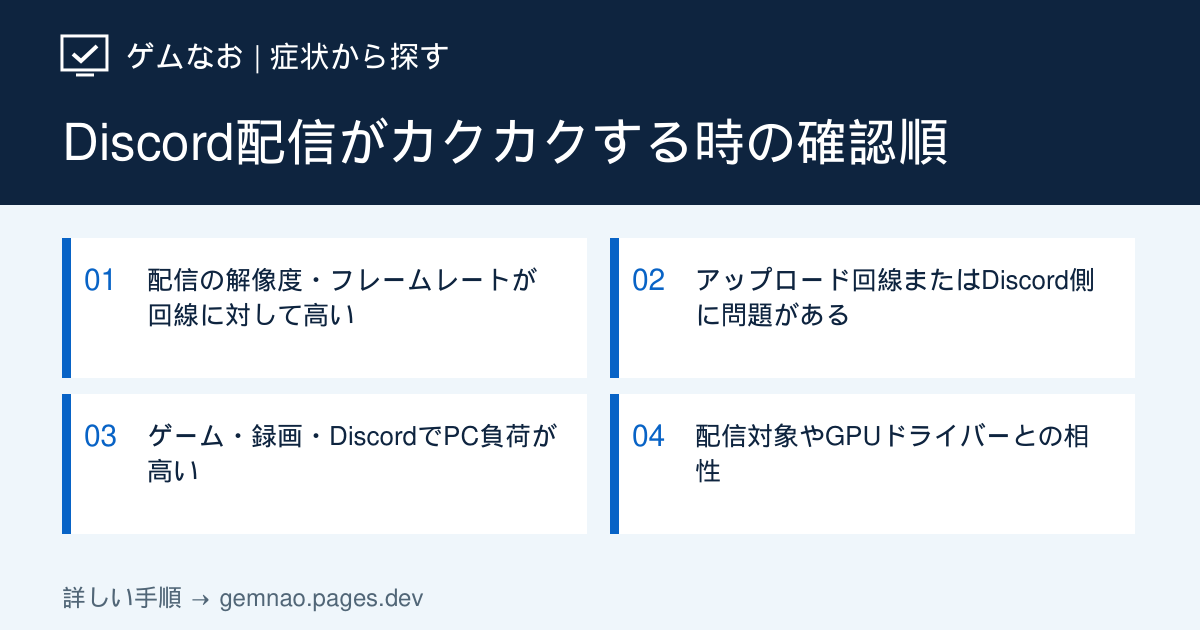
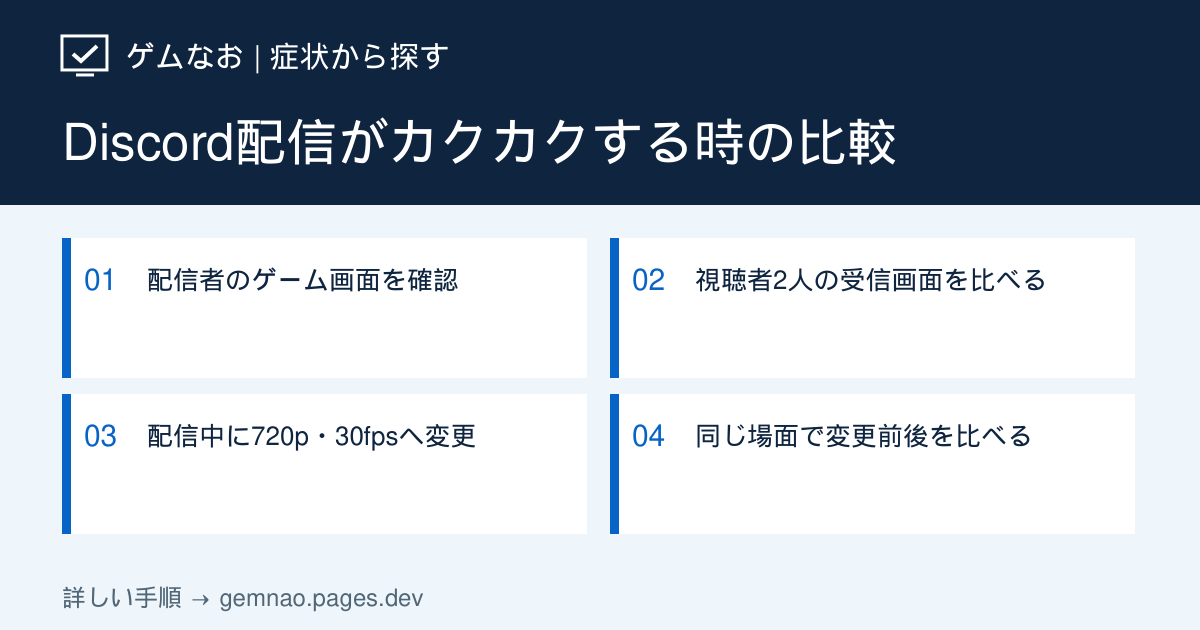
Improve Discord stream stuttering diagnosis for viewers

diff --git a/lib/discord-streaming-growth-articles.ts b/lib/discord-streaming-growth-articles.ts
@@ -15,6 +15,11 @@ const voiceVideoGuide = official(
   '音声・ビデオのトラブルシューティング（英語）',
 );
 
+const goLiveGuide = {
+  label: 'Discord公式サポート：Go Liveと画面共有（配信中の画質設定）',
+  url: 'https://support.discord.com/hc/ja/articles/360040816151',
+};
+
 const discordStatus = {
   label: 'Discord Status（公式障害情報）',
   url: 'https://discordstatus.com/',
@@ -24,95 +29,133 @@ export const discordStreamingGrowthArticles: DiscordArticle[] = [
   {
     slug: 'stream-stuttering',
     category: 'screen',
-    title: 'Discord配信がカクカクする・重いときの対処法',
+    title: 'Discord配信がカクカクする・重いときの直し方【配信者・視聴者別】',
     shortTitle: 'Discord配信がカクカク・重い',
-    seoTitle: 'Discord配信がカクカクする・重いときの対処法【PC】',
+    seoTitle: 'Discord配信がカクカクする原因と直し方【配信者・視聴者別】',
     metaDescription:
-      'Discordのゲーム配信・画面共有がカクカクする、重い場合の対処法。配信品質、回線、PC負荷、ハードウェアアクセラレーションを順に確認します。',
+      'Discordの画面共有がカクカクする場合に、配信者のゲーム画面と視聴者の受信画面を比較。配信中に720p・30fpsへ変更する場所、結果別の回線・PC負荷・共有対象の確認手順を紹介します。',
     symptom:
-      'Discordでゲームや画面を配信すると映像がカクつく、止まる、遅延する、または配信中だけゲームとDiscordが重くなる場合の切り分け手順です。視聴者側だけで起きているのか、配信者側の回線・PC負荷なのかを分けて確認します。',
+      'Discordのゲーム配信・画面共有がコマ送りになる、時々止まる、配信を始めるとゲーム自体も重い場合のWindows向け手順です。配信者のゲーム画面と視聴者の映像を比べて、止まる場所から原因を絞ります。',
     target: 'Windows 11 / Windows 10版 Discordデスクトップアプリ',
     conclusion:
-      '最初にDiscord Statusを確認し、配信を720p・30fpsなど低い品質へ変更します。次に大容量通信と録画を止め、タスクマネージャーでCPU・GPU・メモリ・ネットワークの負荷を確認してください。',
+      '配信者はゲーム画面が滑らかなままか確認し、視聴者2人（難しければ1人）は受信映像が止まる瞬間を伝えます。複数人で止まるなら配信中の画質設定から720p・30fpsに変更し、同じ場面で再比較。配信者のゲームも重いならPC負荷、1人だけ止まるならその視聴者の回線や再生環境を先に確認します。',
     quickFixes: [
-      'Discord Statusを確認し、配信品質を720p・30fpsなどへ下げる',
-      'ダウンロード、クラウド同期、録画など回線とPCを使う処理を止める',
-      'Discordのハードウェアアクセラレーションを切り替え、再起動して比較する',
+      '配信者のゲーム画面と視聴者の配信画面を同じ場面で見比べ、何人がカクつくか確認する',
+      '配信者は配信中のプレビューの歯車 →「配信画質」から720p・30fpsに変更し、同じ場面で再比較する',
+      '改善しなければ、全員で止まる場合は配信者の回線・PC負荷、1人だけならその視聴者の環境を調べる',
+    ],
+    diagnosisTitle: '誰の画面で止まる？ 配信者・視聴者の判定表',
+    diagnosisIntro:
+      '配信者はゲーム本体の動きを、視聴者はDiscordで受信した同じ場面を見ます。1人だけで判断せず、可能なら視聴者2人の結果を比べてください。',
+    diagnosis: [
+      {
+        symptom: '配信者のゲームは滑らか／視聴者2人ともコマ送り',
+        check: '720p・30fpsに変更して両者の映像が改善する？',
+        causeIndex: 1,
+      },
+      {
+        symptom: '配信者のゲームは滑らか／視聴者1人だけ止まる',
+        check: '別の視聴者にも同時に止まるか尋ねる',
+        causeIndex: 2,
+      },
+      {
+        symptom: '配信開始後に配信者のゲーム自体がカクつく',
+        check: '配信を止めるとゲームが滑らかになる？',
+        causeIndex: 3,
+      },
+      {
+        symptom: '視聴者全員で映像も声も途切れる',
+        check: '障害情報・配信者側の通信を確認する',
+        causeIndex: 2,
+      },
+      {
+        symptom: '特定ゲームだけカクつき／デスクトップ共有は滑らか',
+        check: 'ゲームのウィンドウ共有と画面全体の共有を比較',
+        causeIndex: 4,
+      },
     ],
     causes: [
       {
         title: '配信の解像度・フレームレートが回線に対して高い',
         description:
-          '高い解像度やフレームレートは送信帯域を多く使います。視聴者全員でカクつく場合は、まず配信品質を下げて変化を確認します。',
+          '配信者のゲームは滑らかなのに複数の視聴者で映像が止まる場合は、配信画質を下げて同じ場面で比べます。画質変更で直っても回線とPCのどちらが限界かは、この結果だけで断定できません。',
         actions: [
-          '配信中の画面から配信品質の設定を開く',
-          '解像度を720p、フレームレートを30fpsなど現在より低くする',
-          '数分間配信し、複数の視聴者へ映像が滑らかになったか確認する',
-          '改善した場合は、回線が安定する範囲で品質を1段階ずつ戻す',
+          '配信者はゲーム内の同じ場所でカメラを左右に動かし、画面が止まるか確認する。視聴者は同じ動きがDiscordの配信画面で途切れるかを伝える',
+          '配信中の配信者は、サーバーのボイスチャンネルなら小さな配信プレビュー（PiP）にカーソルを置き、歯車 →「配信画質」を開く。見つからなければ画面左下付近の配信中の「画面」ボタンを探す',
+          'DMの通話で配信中なら配信画面の下向き矢印 →「配信画質」。解像度とフレームレートを720p・30fps（表示される範囲内）にする',
+          '配信者は同じ場所で同じ動きを10～20秒繰り返す。視聴者は変更前後で止まる回数が減ったか、2人とも同じ結果かを答える',
+          '両者とも改善すればその設定で続ける。変化しなければ手順2で通信、ゲーム自体も重いなら手順3でPC負荷を確認する',
         ],
+        note: 'Discord公式によるとブラウザから配信する場合は配信画質を変更できません。デスクトップアプリからの配信を対象にしています。',
       },
       {
         title: 'アップロード回線またはDiscord側に問題がある',
         description:
-          '配信はアップロード回線を使用します。ゲームのダウンロード、クラウド同期、別端末の動画送信が重なると映像が止まりやすくなります。',
+          '複数人で映像が途切れるなら配信者側の通信と公式障害情報を確認します。1人だけなら、その視聴者が受信・再生できているかを切り分けます。',
         actions: [
-          'Discord Statusで音声・配信関連の障害がないか確認する',
-          'Steamなどのダウンロード、クラウド同期、バックアップを一時停止する',
-          'Wi-Fiの場合はルーターへ近づくか、有線接続で改善するか確認する',
-          '一人だけカクつく場合は、その視聴者側でも回線とDiscordの再起動を確認する',
+          '配信者・視聴者ともDiscord Statusで音声・配信関連の障害を確認する。告知があれば復旧を待つ',
+          '複数人が同時に止まる場合：配信者はSteamのダウンロード、クラウド同期、別の配信・録画を一つずつ止め、視聴者2人へ同じ場面を再度見てもらう',
+          '配信者がWi-Fiなら有線接続も比較する。設定を変えず回線だけ替えて両方の視聴者が改善すれば、元の回線環境を調べる',
+          '1人だけ止まる場合：その視聴者は配信を一度閉じて再参加し、Discordアプリを再起動して同じ場面を確認する',
+          'まだ1人だけ止まる場合：その視聴者のダウンロード・クラウド同期を止め、可能なら有線接続や別回線で再比較する。ほかの視聴者が正常なら配信者の画質変更だけで原因を確定しない',
         ],
-        note: '公式障害がある場合は、再インストールや設定変更を繰り返さず復旧を待ってください。',
+        note: '回線の測定値だけで判断せず、「同じ場面を誰が見て、どの回線で止まったか」を記録してください。',
       },
       {
         title: 'ゲーム・録画・DiscordでPC負荷が高い',
         description:
-          '高負荷のゲームと配信、録画を同時に行うと、CPU・GPU・メモリの余裕がなくなり、ゲームと配信の両方がカクつくことがあります。',
+          '配信を始めた途端に配信者のゲーム画面も止まるなら、視聴者の回線だけでなく配信者PCの負荷を確認します。',
         actions: [
-          'タスクマネージャーでCPU、GPU、メモリの使用率を確認する',
-          '録画ソフト、不要なブラウザタブ、オーバーレイを一時的に終了する',
-          'ゲームのFPS上限や画質を下げ、配信前後で負荷を比較する',
-          'Discordだけ重い場合は、ユーザー設定でハードウェアアクセラレーションを切り替えて再起動する',
+          '配信者は配信前・配信中に同じゲーム内の場所でゲーム本体の動きを比較する。視聴者にもその場面を見てもらい、両方止まるか確認する',
+          'Ctrl＋Shift＋Escでタスクマネージャー →「パフォーマンス」を開き、CPU・メモリ・GPUが配信中だけ高止まりしていないか見る。「プロセス」で負荷の高いアプリも確認する',
+          '録画ソフトや不要なブラウザタブを一つずつ止め、同じ場面で配信者のゲームと視聴者の映像を比べる',
+          '改善しなければゲーム内のFPS上限や画質を1段階下げ、同じ場面で再比較する。配信者のゲームが改善しても視聴者映像だけ止まるなら手順1・2へ戻る',
         ],
       },
       {
         title: '配信対象やGPUドライバーとの相性',
         description:
-          'ゲーム画面の共有だけで問題が出る場合は、共有対象、全画面表示、GPUドライバーの組み合わせを切り分けます。',
+          '特定のゲームを共有したときだけカクつくなら共有方法を比べます。画面共有の方式やDiscordの映像設定が関係する場合があります。',
         actions: [
-          '画面全体ではなくゲームのウィンドウを直接選んで配信する',
-          'ゲームをボーダーレスウィンドウへ変更して比較する',
-          'DiscordとWindowsを更新して再起動する',
-          'GPUメーカーまたはPCメーカーの公式手順でドライバーを更新する',
+          '同じゲームの同じ場面を「ゲームのウィンドウ」と「画面全体」でそれぞれ共有し、同じ視聴者に映像を比較してもらう。ゲームで表示を切り替えられるならボーダーレス表示でも試す',
+          'アプリ左下の歯車 →「音声・ビデオ」→「ビデオ」内のハードウェアアクセラレーションを現在と反対に変更し、Discordを再起動して同じ場面を比較する',
+          '変化がなければその設定を元に戻す。DiscordとWindowsの更新を確認し、必要ならGPUメーカーまたはPCメーカーの公式手順でドライバーを更新する',
         ],
+        note: 'アプリの画面構成によって設定名や配置が変わる場合があります。変更前の状態を控え、結果が悪化したら戻してください。',
       },
     ],
     ifNotFixed:
-      '別のゲームやデスクトップ共有でも再現するか確認してください。すべての配信で重い場合は回線・PC負荷・Discord側、特定ゲームだけならそのゲームの描画設定や既知問題の可能性があります。発生時刻、配信品質、PC構成、回線、タスクマネージャーの使用率を記録し、Discord公式サポートへ報告してください。',
+      '同じ視聴者2人で、特定ゲームのウィンドウ・画面全体・別ゲームを順番に比較してください。Discord公式サポートへ相談する場合は、配信者のゲームが止まったか、誰の視聴画面が止まったか、720p・30fpsへの変更結果、回線・PC負荷、発生時刻を一緒に伝えると状況を説明しやすくなります。',
     faqs: [
       {
-        question: 'Discord配信は何fpsに下げればよいですか？',
+        question: '配信中に720p・30fpsを設定する画面はどこですか？',
         answer:
-          'まず30fpsへ下げて改善するか確認してください。解像度も720pなどへ下げ、回線とPC負荷に余裕がある範囲で1段階ずつ戻します。',
+          'サーバーのボイスチャンネルなら配信者の小さな配信プレビューにカーソルを置き、歯車 →「配信画質」。DMなら配信画面の下向き矢印 →「配信画質」です。配信中の「画面」ボタンからも変更できます。',
       },
       {
-        question: '自分のゲームも配信映像もカクつきます',
+        question:
+          '配信者のプレビューが滑らかなら、視聴者にも滑らかに届いていますか？',
         answer:
-          'CPU・GPU・メモリの負荷が高い可能性があります。録画や不要なアプリを止め、ゲームのFPS上限と画質、Discordの配信品質を下げてください。',
+          'プレビューだけでは視聴者の受信状態は分かりません。配信者はゲーム本体の動きを確認し、視聴者が同じ場面の映像で止まったかを伝えて比較します。',
       },
       {
         question: '視聴者一人だけカクカクする場合も配信者の問題ですか？',
         answer:
-          '一人だけなら視聴者側の回線やDiscord環境の可能性があります。複数人で同じ症状か確認し、その視聴者にもDiscordの再起動と通信状態の確認を依頼してください。',
+          'その視聴者の回線やDiscord環境で止まる場合があります。ほかの視聴者が同じ場面を正常に見られたか確かめ、止まった視聴者は配信へ再参加してから、Discordの再起動と別回線での比較を試してください。',
       },
       {
-        question: 'ハードウェアアクセラレーションはオフが正解ですか？',
+        question: '配信画質を変更する項目が見当たりません',
         answer:
-          '常にオフが正解ではありません。PCとGPUドライバーの組み合わせで変わるため、現在と反対の設定へ切り替えて再起動し、改善しなければ元に戻してください。',
+          'Discord公式によるとブラウザからの配信では配信画質を変更できません。Windowsのデスクトップアプリから配信しているか確認し、サーバーならPiPの歯車または配信中の「画面」ボタン、DMなら下向き矢印を探してください。',
       },
     ],
-    sources: [streamingGuide, voiceVideoGuide, discordStatus],
-    related: ['screen-share-not-working', 'slow-performance', 'stream-no-audio'],
-    checkedAt: '2026-09-19',
+    sources: [goLiveGuide, streamingGuide, voiceVideoGuide, discordStatus],
+    related: [
+      'screen-share-not-working',
+      'slow-performance',
+      'stream-no-audio',
+    ],
+    checkedAt: '2026-09-28',
     status: 'verified',
   },
 ];

diff --git a/lib/visual-guides.ts b/lib/visual-guides.ts
@@ -111,7 +111,7 @@ const discordSpecs = [
   [
     'stream-stuttering',
     'discord-stream-stuttering-fix',
-    'Discord配信がカクカクする時の確認順',
+    'Discord配信がカクカクする時の比較',
   ],
 ] as const;
 const discordArticleVisuals = discordSpecs.map(([key, filename, title]) => {
@@ -124,7 +124,15 @@ const discordArticleVisuals = discordSpecs.map(([key, filename, title]) => {
     title,
     alt: `${title}を示すゲムなおの図解`,
     caption: `「${article.shortTitle}」の記事の原因と対処法を示します。操作の詳細は本文を確認してください。`,
-    steps: article.causes.map((cause) => cause.title),
+    steps:
+      key === 'stream-stuttering'
+        ? [
+            '配信者のゲーム画面を確認',
+            '視聴者2人の受信画面を比べる',
+            '配信中に720p・30fpsへ変更',
+            '同じ場面で変更前後を比べる',
+          ]
+        : article.causes.map((cause) => cause.title),
     image: `/images/${filename}.webp`,
     ogImage: `/images/${filename}-og.png`,
   } satisfies GuideVisual;
